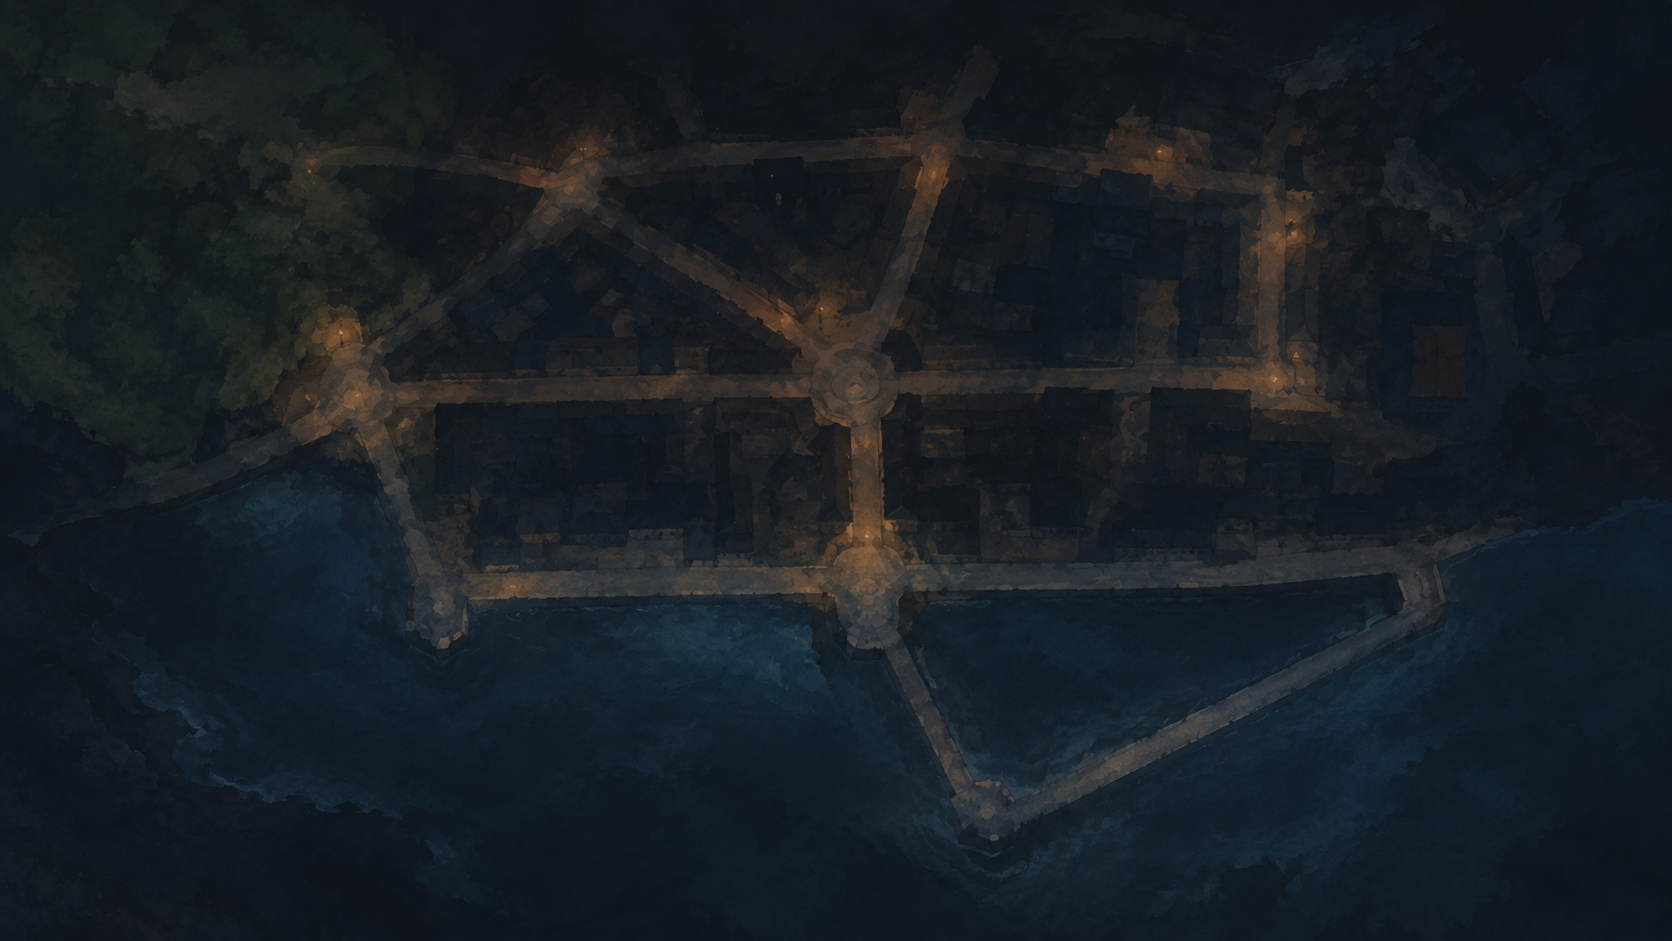
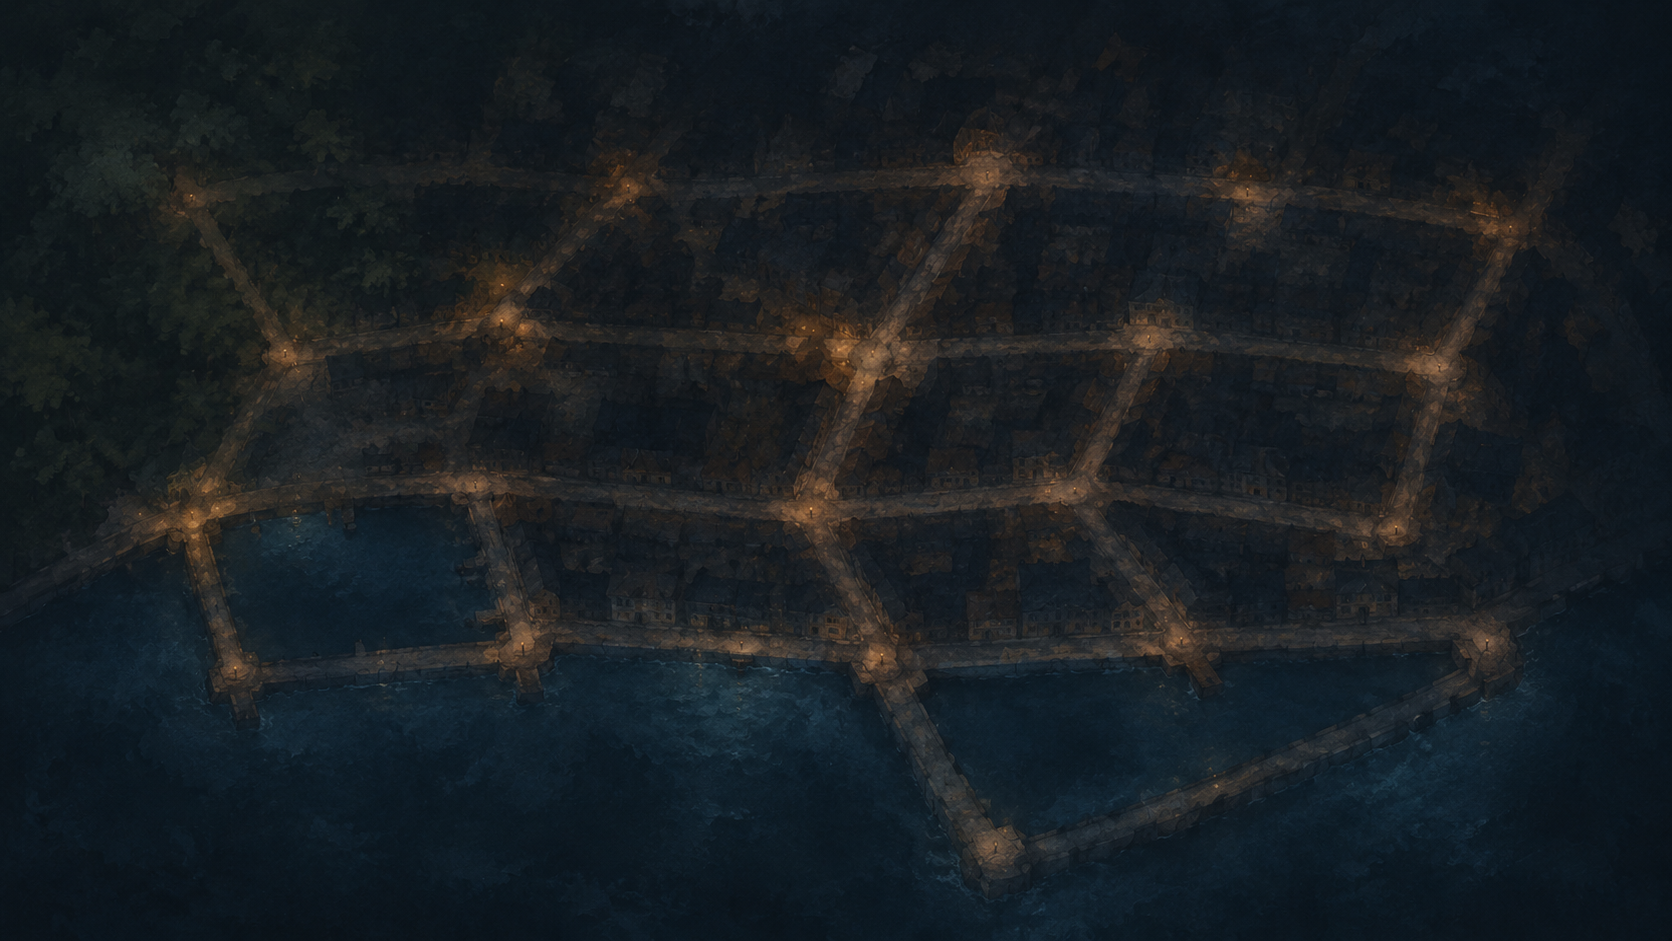
feat:transport

diff --git a/src/components/backgrounds/mapBackgroundImages.ts b/src/components/backgrounds/mapBackgroundImages.ts
@@ -1,4 +1,4 @@
-import vieuxPortBackground from "../../../assets/maps/vieux-port-background.png";
+import vieuxPortBackground from "../../assets/maps/vieux-port-background.png";
 
 // Toutes les cartes n'ont pas forcément une image de fond — Bellevue
 // garde pour l'instant son fond en SVG (voir mapBackgrounds.tsx).
